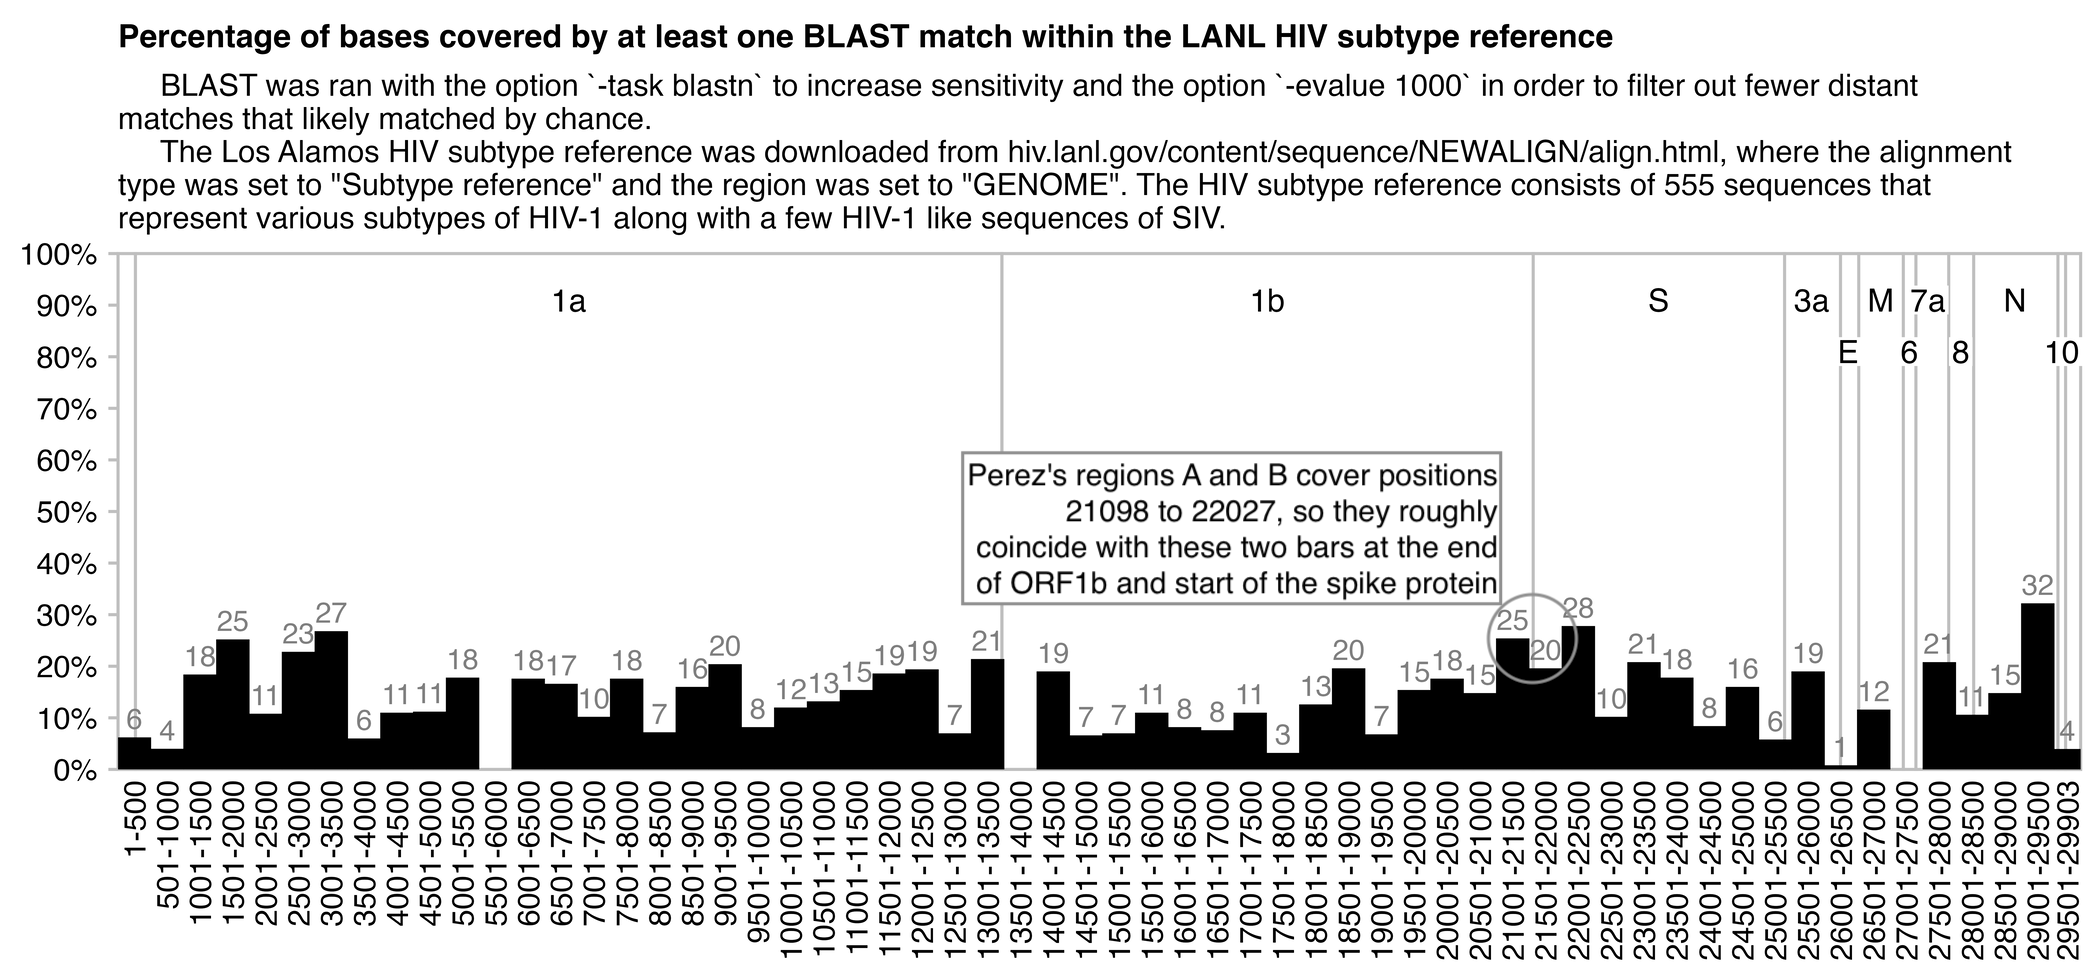
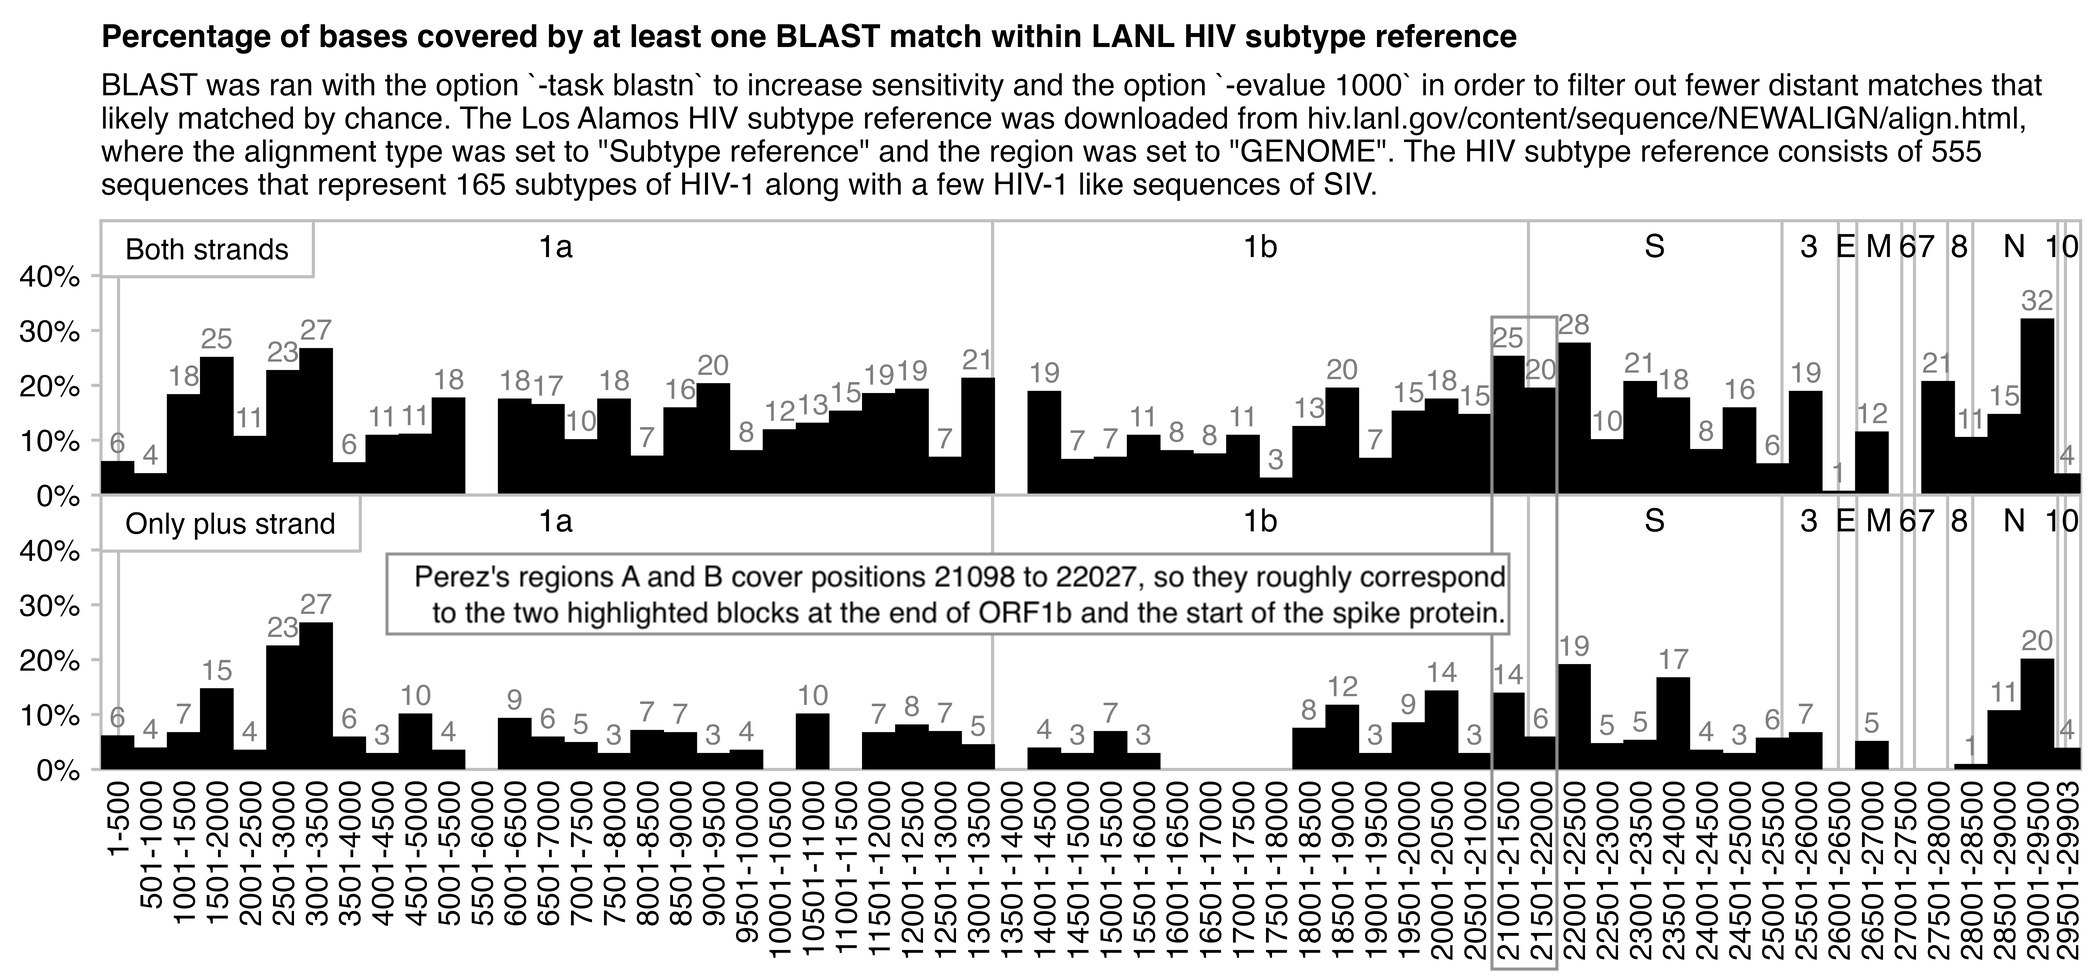
a

Changed region(s): [[0.0, 0.0, 0.9905, 1.0], [0.9595, 0.5816, 0.9905, 0.6735]]

diff --git a/pradhan.html b/pradhan.html
@@ -572,17 +572,13 @@ accession
 </th><th>
 SARS2 start
 </th><th>
-SARS2 end
+SARS2 CDS start
+</th><th>
+SARS2 frame
 </th><th>
 HIV start
 </th><th>
-HIV end
-</th><th>
-SARS2 CDS start
-</th><th>
 HIV CDS start
-</th><th>
-SARS2 frame
 </th><th>
 HIV frame
 </th><th>
@@ -593,17 +589,13 @@ JN230738
 </td><td>
 21138
 </td><td>
-21153
-</td><td>
-77
-</td><td>
-92
-</td><td>
 20899
 </td><td>
+0
+</td><td>
 77
 </td><td>
-0
+77
 </td><td>
 1
 </td><td>
@@ -614,17 +606,13 @@ JF267434
 </td><td>
 21584
 </td><td>
-21601
-</td><td>
-284
-</td><td>
-301
-</td><td>
 47
 </td><td>
+1
+</td><td>
 284
 </td><td>
-1
+284
 </td><td>
 1
 </td><td>
@@ -635,17 +623,13 @@ AF003044
 </td><td>
 21749
 </td><td>
-21768
-</td><td>
-845
-</td><td>
-864
-</td><td>
 212
 </td><td>
+1
+</td><td>
 845
 </td><td>
-1
+845
 </td><td>
 1
 </td><td>
@@ -656,17 +640,13 @@ HQ644953
 </td><td>
 21757
 </td><td>
-21784
-</td><td>
-967
-</td><td>
-994
-</td><td>
 220
 </td><td>
+0
+</td><td>
 967
 </td><td>
-0
+967
 </td><td>
 0
 </td><td>
@@ -677,17 +657,13 @@ L07625
 </td><td>
 21804
 </td><td>
-21829
+267
+</td><td>
+2
 </td><td>
 6701
 </td><td>
-6726
-</td><td>
-267
-</td><td>
 23
-</td><td>
-2
 </td><td>
 1
 </td><td>
@@ -755,11 +731,11 @@ strand  start  end
 $ seqkit locate -pCAAAATAAAACCAATTATATATTTTGATCATATTAATTTTTCAAAA yoelii14.na|cut -f4-6|column -t
 strand  start  end
 +       6903   6948 # (6903-1)%3 is 2</pre>
-<p>In the plot below I used web BLAST to search for Wuhan-Hu-1 within the nr/nt database, where I set species to HIV, task to blastn, expect threshold to 1000, and maximum results to 1000. I then kept scrolling the alignment view for a couple of minutes to fetch all results, I saved the source code of the web page, and I made a list of the starting and ending positions of each match, and I counted how many positions were covered by at least one match. When I divided the genome to 500-base blocks, the three blocks with the highest covered percentage were the blocks that started at positions 21001, 11001, and 21501, where two of the blocks roughly coincide to Perez's regions A and B which cover positions 21098 to 22027. However there was also a block in ORF3a which had almost as high coverage percentage as the block at the end of ORF1b that covered the first half of regions A and B:</p>
+<p>In the plot below I used web BLAST to search for Wuhan-Hu-1 within the nr/nt database, where I set species to HIV, task to blastn, expect threshold to 1000, and maximum results to 1000. I then kept scrolling the alignment view for a couple of minutes to fetch all results, I saved the source code of the web page, and I made a list of the starting and ending positions of each match, and I counted how many positions were covered by at least one match. The E values of the matches ranged between 5.2 and 776. When I divided the genome to 500-base blocks, the three blocks with the highest covered percentage were the blocks that started at positions 21001, 11001, and 21501, where two of the blocks roughly coincide to Perez's regions A and B which cover positions 21098 to 22027. However there was also a block in ORF3a which had almost as high coverage percentage as the block at the end of ORF1b that covered the first half of regions A and B. And when I included only matches on the plus strand, the block at the end of ORF1b got 0% coverage, and the block at the start of the spike protein got 14% coverage which was about as high as three random blocks in ORF1ab:</p>
 <div class="width10">
 <img src="i/pradhan-perez-8.png">
 </div>
-<p>Even though I included the top 1000 BLAST results in the plot above, there were many duplicate matches where different sequences of HIV matched the same segment, so there were only 82 unique starting positions among the matches. But now in order to search within a diverse set of HIV subtypes, I did a BLAST search within the HIV subtype reference published by the Los Alamos National Laboratory: <a href="https://www.hiv.lanl.gov/content/sequence/NEWALIGN/align.html">https://www.hiv.lanl.gov/content/sequence/NEWALIGN/align.html</a>. It contains 555 sequences that represent 165 different subtypes of HIV-1, but it also contains a few HIV-1 like SIV sequences from chimps and gorillas. I got zero results when I ran BLAST with the default options, but my number of results increased to 7 when I added the option <code>-task blastn</code>, and it increased further to 609 when I also added the option <code>-evalue 1000</code>. There were 245 unique starting positions among the results, so now the matches were distributed more evenly because there weren't as many duplicate matches for the same region. And now the two bars which roughly correspond to Perez's regions A and B only had the 4th and 11th highest percentage of matches:</p>
+<p>Even though I included the top 1000 BLAST results in the plot above, there were many duplicate matches where different sequences of HIV matched the same segment, so there were only 82 unique starting positions among the matches. But next in order to search within a diverse set of HIV subtypes, I did a BLAST search within the HIV subtype reference published by the Los Alamos National Laboratory: <a href="https://www.hiv.lanl.gov/content/sequence/NEWALIGN/align.html">https://www.hiv.lanl.gov/content/sequence/NEWALIGN/align.html</a>. It contains 555 sequences that represent 165 different subtypes of HIV-1, but it also contains a few HIV-1 like SIV sequences from chimps and gorillas. I got zero results when I ran BLAST with the default options, but my number of results increased to 7 when I added the option <code>-task blastn</code> and to 609 when I also added the option <code>-evalue 1000</code>. There were 245 unique starting positions among the results, so now the matches were distributed more evenly because there weren't as many duplicate matches for the same region. And now even in the top panel which includes both strands, the two bars which correspond to Perez's regions A and B only had the 4th and 11th highest percentage of matches:</p>
 <div class="width10">
 <img src="i/pradhan-perez-9.png">
 </div>
